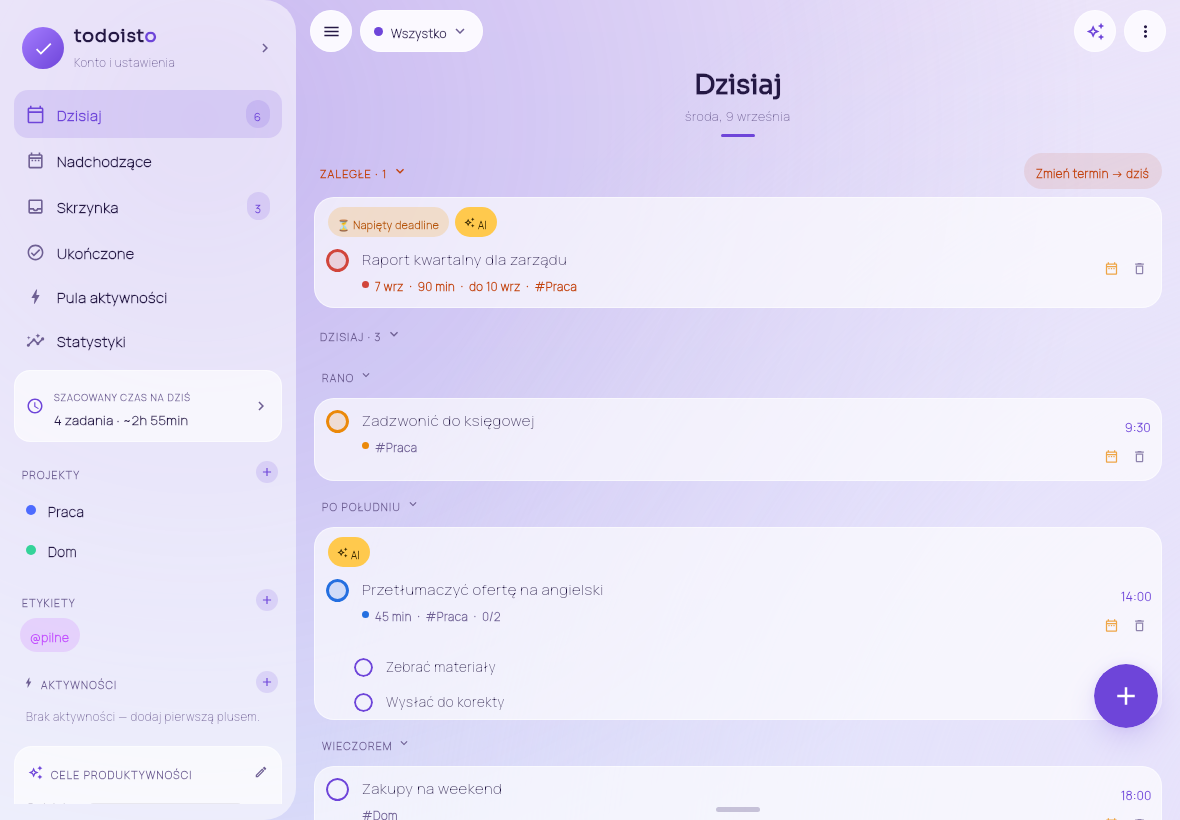
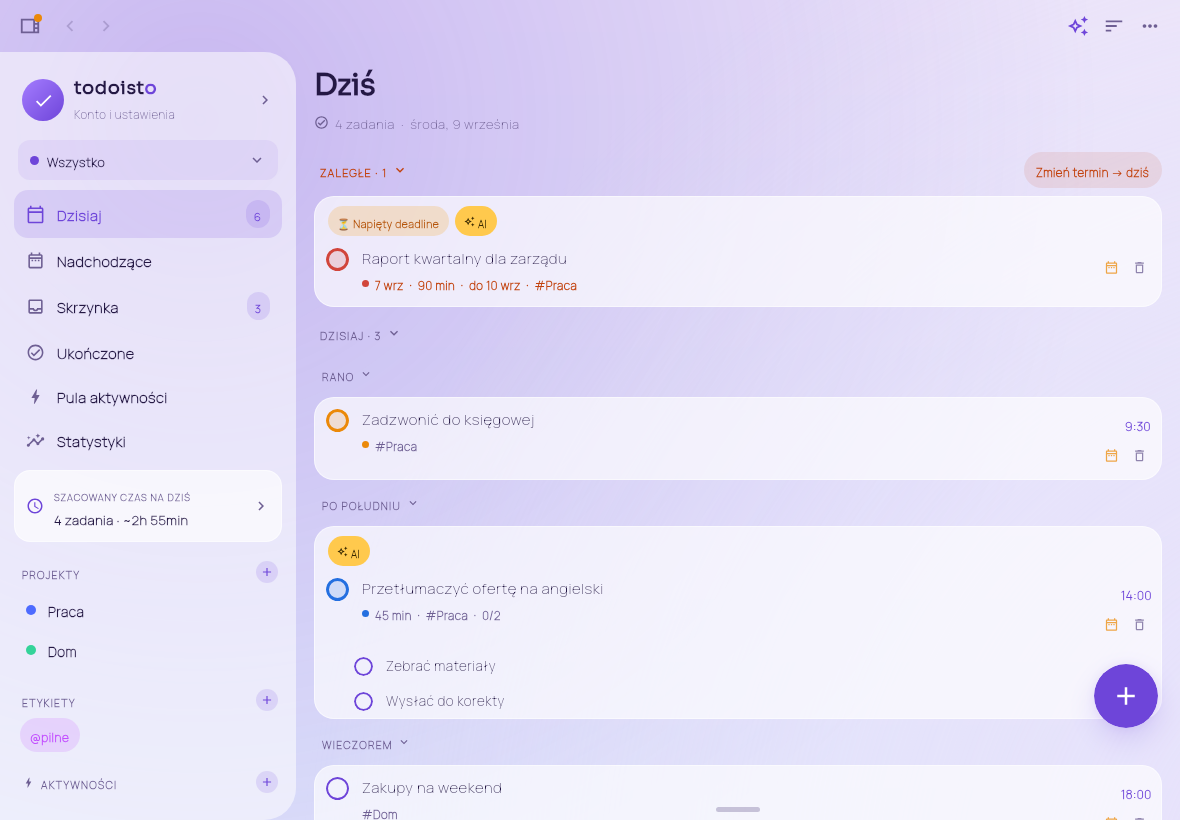
Desktop: pasek narzędzi w stylu Todoist na Macu
- Treść pod paskiem tytułu (fullWindowContent/transparentTitleBar): światła okna
  w linii paska narzędzi; pasek jest obszarem przeciągania okna
- Płaskie ikony: ▯ menu boczne (kropka przy zaległych), ‹ › historia widoków,
  ✦ Asystent tygodnia, ☰ sortowanie, ⋯ menu; przełącznik obszaru przeniesiony
  na górę menu bocznego
- Nagłówek „Dziś" duży, do lewej, z liczbą zadań i datą

Claude-Session: https://claude.ai/code/session_01NFSfL1HDSjHi63BxqjtWtn

diff --git a/desktop/src/main/kotlin/pl/media30/todoisto/desktop/Main.kt b/desktop/src/main/kotlin/pl/media30/todoisto/desktop/Main.kt
@@ -21,7 +21,11 @@ import androidx.compose.material.icons.filled.Check
 import androidx.compose.material.icons.filled.KeyboardArrowDown
 import androidx.compose.material.icons.filled.Menu
 import androidx.compose.material.icons.filled.Mic
-import androidx.compose.material.icons.filled.MoreVert
+import androidx.compose.material.icons.filled.MoreHoriz
+import androidx.compose.material.icons.automirrored.filled.KeyboardArrowLeft
+import androidx.compose.material.icons.automirrored.filled.KeyboardArrowRight
+import androidx.compose.material.icons.automirrored.outlined.Sort
+import androidx.compose.material.icons.outlined.ViewSidebar
 import androidx.compose.material.icons.outlined.Archive
 import androidx.compose.material.icons.outlined.AutoAwesome
 import androidx.compose.material.icons.outlined.Autorenew
@@ -74,6 +78,7 @@ import androidx.compose.ui.text.font.FontWeight
 import androidx.compose.ui.unit.IntOffset
 import androidx.compose.ui.unit.dp
 import androidx.compose.ui.unit.sp
+import androidx.compose.foundation.window.WindowDraggableArea
 import androidx.compose.ui.window.MenuBar
 import androidx.compose.ui.window.Popup
 import androidx.compose.ui.window.Window
@@ -91,6 +96,14 @@ fun main() {
         val state = rememberWindowState(width = 1180.dp, height = 820.dp)
         val holder = remember { AppHolder() }
         Window(onCloseRequest = ::exitApplication, title = "Todoisto", state = state, icon = AppIcon.painter) {
+            // Jak Todoist na Macu: treść pod paskiem tytułu, światła okna w linii paska narzędzi.
+            LaunchedEffect(Unit) {
+                runCatching {
+                    window.rootPane.putClientProperty("apple.awt.fullWindowContent", true)
+                    window.rootPane.putClientProperty("apple.awt.transparentTitleBar", true)
+                    window.rootPane.putClientProperty("apple.awt.windowTitleVisible", false)
+                }
+            }
             // Natywny pasek menu macOS ma każda aplikacja (Todoist też) — trzymamy go
             // minimalnym, a cała nawigacja jest w oknie, tak jak na Androidzie.
             MenuBar {
@@ -110,7 +123,7 @@ fun main() {
                     Item("Pokaż/ukryj menu boczne", shortcut = KeyShortcut(Key.B, meta = true)) { holder.state?.let { it.setDrawer(!it.drawerOpen) } }
                 }
             }
-            App(holder)
+            App(holder) { content -> WindowDraggableArea { content() } }
         }
     }
 }
@@ -119,7 +132,7 @@ fun main() {
 class AppHolder { var state: AppState? = null }
 
 @Composable
-fun App(holder: AppHolder) {
+fun App(holder: AppHolder, dragArea: @Composable (@Composable () -> Unit) -> Unit = { it() }) {
     val scope = rememberCoroutineScope()
     val st = remember { AppState(TaskRepository(), AppSettings(), scope).also { holder.state = it } }
     st.settingsRev // subskrypcja zmian ustawień (motyw, tryb ciemny, tło…)
@@ -164,11 +177,11 @@ fun App(holder: AppHolder) {
                 }
             ) {
                 AppBackground(st)
-                Row(Modifier.fillMaxSize()) {
-                    AnimatedVisibility(st.drawerOpen) { DrawerPanel(st) }
-                    Column(Modifier.weight(1f).fillMaxHeight()) {
-                        TopBar(st)
-                        Box(Modifier.weight(1f).fillMaxWidth()) {
+                Column(Modifier.fillMaxSize()) {
+                    dragArea { TopBar(st) }
+                    Row(Modifier.weight(1f).fillMaxWidth()) {
+                        AnimatedVisibility(st.drawerOpen) { DrawerPanel(st) }
+                        Box(Modifier.weight(1f).fillMaxHeight()) {
                             TaskListContent(st)
                             RoutinesPanel(st)
                             BottomDock(st)
@@ -239,21 +252,35 @@ private fun AppBackground(st: AppState) {
     }
 }
 
-// ─── Pasek górny jak w Androidzie: ☰ · Obszar ▾ · … · ✦ · ⋮ ─────────────────
+// ─── Pasek narzędzi jak Todoist na Macu: ●●● · ▯ · ‹ › · … · ✦ · ☰ · ⋯ ──────────
+val isMac: Boolean = System.getProperty("os.name", "").lowercase().contains("mac")
+
 @Composable
 private fun TopBar(st: AppState) {
     val g = LocalGlass.current
     var menuOpen by remember { mutableStateOf(false) }
     val ui = remember(st.rev, st.view, st.sort, st.activeArea, st.settingsRev) { st.buildUiState() }
-    Row(Modifier.fillMaxWidth().padding(horizontal = 14.dp, vertical = 10.dp), verticalAlignment = Alignment.CenterVertically, horizontalArrangement = Arrangement.spacedBy(8.dp)) {
-        CircleGlassButton(Icons.Filled.Menu, "Menu") { st.setDrawer(!st.drawerOpen) }
-        AreaSwitcher(st)
-        if (st.syncing) Text("☁ synchronizuję…", fontSize = 11.5.sp, color = g.textSecondary, fontFamily = Manrope)
-        Spacer(Modifier.weight(1f))
-        CircleGlassButton(Icons.Outlined.AutoAwesome, "Podsumowanie tygodnia", tint = g.accent) { st.briefOpen = !st.briefOpen }
+    Row(
+        Modifier.fillMaxWidth().height(52.dp).padding(start = if (isMac) 84.dp else 12.dp, end = 12.dp),
+        verticalAlignment = Alignment.CenterVertically
+    ) {
         Box {
-            CircleGlassButton(Icons.Filled.MoreVert, "Więcej") { menuOpen = true }
-            if (menuOpen) Popup(alignment = Alignment.TopEnd, onDismissRequest = { menuOpen = false }, offset = IntOffset(0, 48)) {
+            ToolbarIcon(Icons.Outlined.ViewSidebar, "Menu boczne") { st.setDrawer(!st.drawerOpen) }
+            // Kropka jak w Todoist — sygnalizuje zaległe zadania.
+            if (ui.todayCount > 0 && st.repo.tasks.any { !it.isCompleted && it.dueDate != null && it.dueDate!! < st.today }) {
+                Box(Modifier.align(Alignment.TopEnd).padding(top = 6.dp, end = 6.dp).size(8.dp).clip(CircleShape).background(g.warn))
+            }
+        }
+        Spacer(Modifier.width(4.dp))
+        ToolbarIcon(Icons.AutoMirrored.Filled.KeyboardArrowLeft, "Wstecz", enabled = st.canGoBack) { st.goBack() }
+        ToolbarIcon(Icons.AutoMirrored.Filled.KeyboardArrowRight, "Dalej", enabled = st.canGoForward) { st.goForward() }
+        Spacer(Modifier.weight(1f))
+        if (st.syncing) Text("☁ synchronizuję…", fontSize = 11.5.sp, color = g.textSecondary, fontFamily = Manrope, modifier = Modifier.padding(end = 8.dp))
+        ToolbarIcon(Icons.Outlined.AutoAwesome, "Asystent tygodnia", tint = g.accent) { st.briefOpen = !st.briefOpen }
+        ToolbarIcon(Icons.AutoMirrored.Outlined.Sort, "Widok: sortowanie") { st.showSort = true }
+        Box {
+            ToolbarIcon(Icons.Filled.MoreHoriz, "Więcej") { menuOpen = true }
+            if (menuOpen) Popup(alignment = Alignment.TopEnd, onDismissRequest = { menuOpen = false }, offset = IntOffset(0, 44)) {
                 Column(Modifier.width(250.dp).glass(RoundedCornerShape(22.dp), strong = true, elevation = 18.dp).padding(8.dp)) {
                     GlassMenuItem("Sortowanie: ${st.sort.label}", Icons.Outlined.Autorenew) { menuOpen = false; st.showSort = true }
                     GlassMenuItem("Skanuj kartkę", Icons.Outlined.PhotoCamera) { menuOpen = false; st.showScanChooser = true }
@@ -278,6 +305,15 @@ private fun TopBar(st: AppState) {
     }
 }
 
+/** Płaska ikona paska narzędzi (bez szklanego kółka) — jak w Todoist. */
+@Composable
+private fun ToolbarIcon(icon: ImageVector, desc: String, enabled: Boolean = true, tint: Color? = null, onClick: () -> Unit) {
+    val g = LocalGlass.current
+    Box(Modifier.size(36.dp).clip(RoundedCornerShape(8.dp)).clickable(enabled = enabled) { onClick() }, contentAlignment = Alignment.Center) {
+        Icon(icon, desc, tint = if (!enabled) g.textSecondary.copy(alpha = 0.35f) else (tint ?: g.textSecondary), modifier = Modifier.size(22.dp))
+    }
+}
+
 fun copyToClipboard(text: String) {
     runCatching { java.awt.Toolkit.getDefaultToolkit().systemClipboard.setContents(java.awt.datatransfer.StringSelection(text), null) }
 }
@@ -298,20 +334,19 @@ fun GlassMenuDivider() { val g = LocalGlass.current; Box(Modifier.fillMaxWidth()
 
 /** Przełącznik obszaru („Wszystko" / obszary / + Nowy obszar) — jak `AreaSwitcher`. */
 @Composable
-private fun AreaSwitcher(st: AppState) {
+fun AreaSwitcher(st: AppState, modifier: Modifier = Modifier) {
     val g = LocalGlass.current
     var open by remember { mutableStateOf(false) }
     st.rev
     val active = st.repo.area(st.activeArea)
-    Box {
+    Box(modifier) {
         Row(
-            Modifier.height(42.dp).glass(RoundedCornerShape(50), strong = true).clickable { open = true }.padding(horizontal = 14.dp),
+            Modifier.height(40.dp).fillMaxWidth().clip(RoundedCornerShape(12.dp)).background(g.accent.copy(alpha = 0.08f)).clickable { open = true }.padding(horizontal = 12.dp),
             verticalAlignment = Alignment.CenterVertically
         ) {
             Dot(active?.let { Color(it.colorArgb) } ?: g.accent)
             Spacer(Modifier.width(8.dp))
-            Text(active?.name ?: "Wszystko", fontSize = 12.sp, fontWeight = FontWeight.W800, color = g.textPrimary, fontFamily = Manrope)
-            Spacer(Modifier.width(4.dp))
+            Text(active?.name ?: "Wszystko", fontSize = 12.5.sp, fontWeight = FontWeight.W800, color = g.textPrimary, fontFamily = Manrope, modifier = Modifier.weight(1f))
             Icon(Icons.Filled.KeyboardArrowDown, null, tint = g.textSecondary, modifier = Modifier.size(18.dp))
         }
         if (open) Popup(onDismissRequest = { open = false }, offset = IntOffset(0, 48)) {

diff --git a/desktop/src/main/kotlin/pl/media30/todoisto/desktop/TaskList.kt b/desktop/src/main/kotlin/pl/media30/todoisto/desktop/TaskList.kt
@@ -22,6 +22,7 @@ import androidx.compose.material.icons.filled.Check
 import androidx.compose.material.icons.filled.KeyboardArrowDown
 import androidx.compose.material.icons.outlined.AutoAwesome
 import androidx.compose.material.icons.outlined.Autorenew
+import androidx.compose.material.icons.outlined.CheckCircle
 import androidx.compose.material.icons.outlined.DateRange
 import androidx.compose.material.icons.outlined.DeleteOutline
 import androidx.compose.material.icons.outlined.WbSunny
@@ -75,11 +76,14 @@ fun TaskListContent(st: AppState) {
         when (ui.view) {
             AppView.Today -> {
                 item {
-                    Column(Modifier.fillMaxWidth().padding(bottom = 8.dp), horizontalAlignment = Alignment.CenterHorizontally) {
-                        Text("Dzisiaj", fontSize = 27.sp, fontWeight = FontWeight.W600, color = g.textPrimary, fontFamily = Sora, letterSpacing = (-0.27).sp)
-                        Text(dateCaption(), fontSize = 12.5.sp, color = g.textSecondary, fontFamily = Manrope)
-                        Spacer(Modifier.height(8.dp))
-                        Box(Modifier.width(34.dp).height(3.dp).clip(RoundedCornerShape(50)).background(g.accent))
+                    Column(Modifier.fillMaxWidth().padding(top = 8.dp, bottom = 10.dp)) {
+                        Text("Dziś", fontSize = 30.sp, fontWeight = FontWeight.W800, color = g.textPrimary, fontFamily = Sora, letterSpacing = (-0.6).sp)
+                        Spacer(Modifier.height(6.dp))
+                        Row(verticalAlignment = Alignment.CenterVertically) {
+                            Icon(Icons.Outlined.CheckCircle, null, tint = g.textSecondary, modifier = Modifier.size(15.dp))
+                            Spacer(Modifier.width(6.dp))
+                            Text("${nodes.size} ${plural(nodes.size, "zadanie", "zadania", "zadań")}  ·  ${dateCaption()}", fontSize = 13.sp, color = g.textSecondary, fontFamily = Manrope)
+                        }
                     }
                 }
                 val overdue = nodes.filter { it.task.dueDate != null && it.task.dueDate!! < today }

diff --git a/desktop/src/main/kotlin/pl/media30/todoisto/desktop/State.kt b/desktop/src/main/kotlin/pl/media30/todoisto/desktop/State.kt
@@ -258,7 +258,19 @@ class AppState(val repo: TaskRepository, val settings: AppSettings, val scope: C
         askAi(AutomationAdvisor.advise(task.title, task.notes).aiPrompt)
     }
     fun changeSort(m: SortMode) { sort = m; settings.sortMode = m.name }
-    fun showView(v: AppView) { view = v }
+    // Historia widoków (strzałki ‹ › w pasku, jak w Todoist).
+    private val history = mutableListOf<AppView>(view)
+    private var historyIndex by mutableStateOf(0)
+    val canGoBack: Boolean get() = historyIndex > 0
+    val canGoForward: Boolean get() = historyIndex < history.size - 1
+    fun showView(v: AppView) {
+        if (v == view) return
+        while (history.size - 1 > historyIndex) history.removeAt(history.size - 1)
+        history.add(v); historyIndex = history.size - 1
+        view = v
+    }
+    fun goBack() { if (canGoBack) { historyIndex--; view = history[historyIndex] } }
+    fun goForward() { if (canGoForward) { historyIndex++; view = history[historyIndex] } }
     fun selectArea(id: Long?) { activeArea = id; settings.activeArea = id ?: -1L }
     fun setDrawer(open: Boolean) { drawerOpen = open; settings.drawerOpen = open }
 

diff --git a/desktop/src/main/kotlin/pl/media30/todoisto/desktop/Drawer.kt b/desktop/src/main/kotlin/pl/media30/todoisto/desktop/Drawer.kt
@@ -67,6 +67,9 @@ fun DrawerPanel(st: AppState) {
             }
             Icon(Icons.Filled.KeyboardArrowRight, null, tint = g.textSecondary, modifier = Modifier.size(18.dp))
         }
+        Spacer(Modifier.height(8.dp))
+        // Obszar (jak wybór przestrzeni w Todoist na górze paska bocznego)
+        AreaSwitcher(st, Modifier.padding(horizontal = 4.dp))
         Spacer(Modifier.height(10.dp))
 
         DrawerRow(Icons.Outlined.CalendarToday, "Dzisiaj", ui.todayCount, st.view == AppView.Today) { st.showView(AppView.Today) }

diff --git a/DESKTOP.md b/DESKTOP.md
@@ -54,7 +54,7 @@ użytkowników, trzeba ją podpisać certyfikatem Apple Developer (osobny, opcjo
 | Android | Mac |
 |---|---|
 | Szuflada (☰) | **Menu boczne** po lewej — te same wiersze: Konto i ustawienia, Dzisiaj, Nadchodzące, Skrzynka, Ukończone, Pula aktywności, Statystyki, Szacowany czas na dziś, ★ Ulubione, Projekty (+), Etykiety (+), Aktywności (+), Archiwum, Cele produktywności. Chowasz/pokazujesz przyciskiem ☰ lub ⌘B. |
-| Pasek górny | Ten sam: ☰ · przełącznik **obszaru** („Wszystko" / obszary / + Nowy obszar) · ✦ **Asystent tygodnia** · ⋮ menu (Sortowanie, Skanuj kartkę, Czas wolny, Kopiuj plan dnia; w projekcie: ulubione, Dodaj sekcję, Duplikuj, Archiwizuj, Usuń; w etykiecie: ulubione, Usuń). |
+| Pasek górny | **Pasek narzędzi jak w Todoist na Macu**: światła okna w jednej linii, ▯ menu boczne (z kropką, gdy są zaległe), ‹ › historia widoków, po prawej ✦ **Asystent tygodnia**, ☰ sortowanie i ⋯ menu (Sortowanie, Skanuj kartkę, Czas wolny, Kopiuj plan dnia; w projekcie: ulubione, Dodaj sekcję, Duplikuj, Archiwizuj, Usuń; w etykiecie: ulubione, Usuń). Przełącznik **obszaru** jest na górze menu bocznego. Tytuł widoku („Dziś" + liczba zadań i data) duży, wyrównany do lewej. |
 | Dock na dole | Ten sam: **Rutyny** (badge + pierścień postępu dnia) · **Dziś** · **Nadchodz.** · **Mikrofon**. Na Macu **wysuwa się po najechaniu myszą na dół okna** (jak Dock systemowy); w Ustawieniach można go przypiąć na stałe. |
 | FAB „+" | Ten sam — otwiera panel **Nowe zadanie** (parser języka naturalnego, chipy rozpoznanych tokenów, skróty, skan z pliku). ⌘N robi to samo. **Enter dodaje zadanie.** |
 | Przesunięcie kafelka (Ukończ / Na jutro) | Kółko = ukończ; ikona kalendarza = **Termin** (Dziś / Jutro / Następny weekend / kalendarz / Zapisz); kosz = usuń. Przy zaległych dodatkowo „Zmień termin → dziś" (jak w Todoist). |
